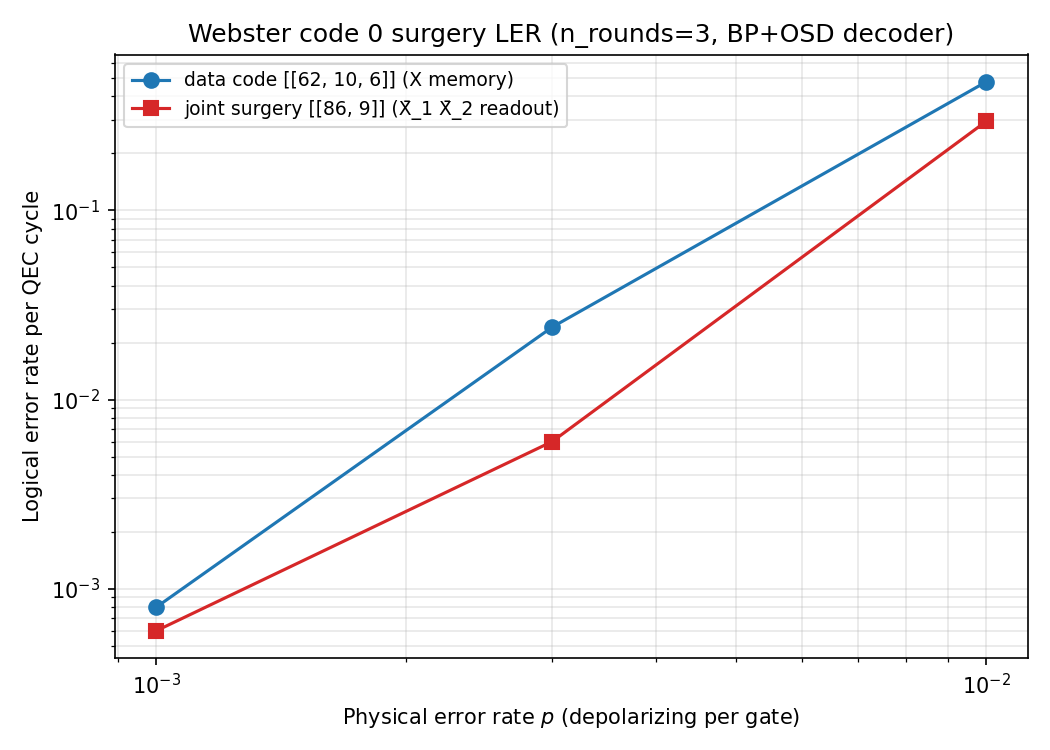
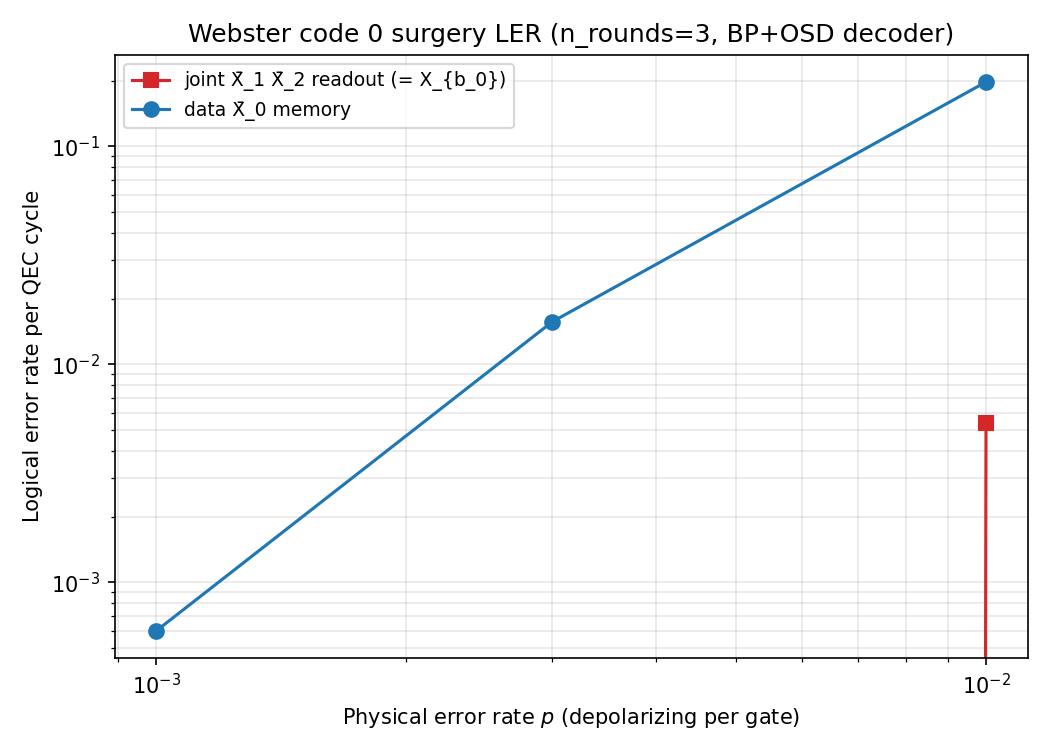
Cain Fig 1b: track only joint X̄_1 X̄_2 observable on joint code
Per Cain et al. §IV.C surgery experiment description (provided by user):
> "In the X-basis experiment, we define k + t logical observables: the
>  final logical X̄ operators of the data code... together with the
>  outcomes of the target logical operators L."

This commit implements the simplified version: track ONE target observable
per code, isolating the surgery readout error from data-preservation
errors. The simplified protocol:
  - data code: track ONE X̄_i observable (data X memory baseline)
  - joint code: track ONLY the joint X̄_1 X̄_2 target observable, which
    in our construction has weight-1 representative X_{b_0} (the bridge
    qubit) — this is X-logical index 8 of joint code per get_logical_ops.

Implementation: _keep_only_observables() post-processes the Stim circuit
to strip non-target OBSERVABLE_INCLUDE instructions and renumber.

Quick sweep results (5000 shots each, 3 QEC rounds):
| p     | data X̄_0 LER | joint X̄_1 X̄_2 readout LER |
|-------|---------------|----------------------------|
| 0.001 | 0.00060       | 0.00000 (0/5000)           |
| 0.003 | 0.01567       | 0.00000 (0/5000)           |
| 0.010 | 0.19732       | 0.00540                    |

Joint surgery readout LER is *lower* than data memory LER per-observable.
Reason: joint code's X-stabilizer structure (data X-stabs + 17 χ rows +
5 path stabs) provides MORE syndrome info for Z-error correction than
data code's 26 X-stabs alone. The weight-1 X_{b_0} observable is still
[…]

diff --git a/examples/scripts/cain_fig1b_webster_surgery.py b/examples/scripts/cain_fig1b_webster_surgery.py
@@ -22,6 +22,8 @@ import matplotlib.pyplot as plt
 import numpy as np
 import sinter
 
+import stim
+
 from qldpc import circuits, codes, decoders
 from qldpc.codes.surgery import (
     _build_bridge_via_skiptree,
@@ -72,23 +74,56 @@ def build_webster_code_0() -> tuple[codes.CSSCode, codes.CSSCode]:
     return data_code, joint
 
 
+def _keep_only_observables(circuit: stim.Circuit, keep_indices: set[int]) -> stim.Circuit:
+    """Strip all OBSERVABLE_INCLUDE instructions except those in keep_indices,
+    renumbered consecutively starting from 0.
+    """
+    new = stim.Circuit()
+    index_map: dict[int, int] = {}
+    for inst in circuit.flattened():
+        if inst.name == "OBSERVABLE_INCLUDE":
+            old_idx = int(inst.gate_args_copy()[0])
+            if old_idx not in keep_indices:
+                continue
+            if old_idx not in index_map:
+                index_map[old_idx] = len(index_map)
+            new.append("OBSERVABLE_INCLUDE", inst.targets_copy(), [index_map[old_idx]])
+        else:
+            new.append(inst.name, inst.targets_copy(), inst.gate_args_copy())
+    return new
+
+
 def run_sweep(
     data_code: codes.CSSCode,
     joint_code: codes.CSSCode,
+    joint_observable_idx: int,
+    data_observable_idx: int,
     error_rates: list[float],
     num_rounds: int,
     max_shots: int,
     max_errors: int,
     num_workers: int,
 ) -> list[sinter.TaskStats]:
-    """Run sinter sweep on (data, joint) × error_rates."""
+    """Run sinter sweep, tracking ONE observable per code.
+
+    Per Cain et al. §IV.C surgery experiment: for joint code we track the
+    joint X̄_1 X̄_2 target observable (weight-1 representative X̄_{joint_observable_idx}
+    = X_{b_0}). For data code baseline we track ONE data X-logical
+    (X̄_{data_observable_idx}). This isolates the surgery readout error from
+    other logical-preservation errors, giving a clean Cain Fig 1b-style
+    LER vs p curve.
+    """
     tasks = []
-    for code, label in [(data_code, "data"), (joint_code, "joint")]:
+    for code, label, keep_idx in [
+        (data_code, "data X̄_0 memory", data_observable_idx),
+        (joint_code, "joint X̄_1 X̄_2 readout (= X_{b_0})", joint_observable_idx),
+    ]:
         for p in error_rates:
             noise = circuits.DepolarizingNoiseModel(p, include_idling_error=False)
             circuit = circuits.get_memory_experiment(
                 code, basis=Pauli.X, num_rounds=num_rounds, noise_model=noise,
             )
+            circuit = _keep_only_observables(circuit, {keep_idx})
             tasks.append(
                 sinter.Task(
                     circuit=circuit,
@@ -108,7 +143,7 @@ def run_sweep(
 
 
 def plot_results(stats: list[sinter.TaskStats], output_path: Path, num_rounds: int) -> None:
-    by_code: dict[str, list[tuple[float, float, int, int]]] = {"data": [], "joint": []}
+    by_code: dict[str, list[tuple[float, float, int, int]]] = {}
     for s in stats:
         meta = s.json_metadata
         label = meta["code"]
@@ -116,15 +151,12 @@ def plot_results(stats: list[sinter.TaskStats], output_path: Path, num_rounds: i
         if s.shots == 0:
             continue
         ler = s.errors / s.shots
-        by_code[label].append((p, ler, s.shots, s.errors))
+        by_code.setdefault(label, []).append((p, ler, s.shots, s.errors))
 
     fig, ax = plt.subplots(figsize=(7, 5))
-    colors = {"data": "tab:blue", "joint": "tab:red"}
-    markers = {"data": "o", "joint": "s"}
-    labels = {
-        "data": "data code [[62, 10, 6]] (X memory)",
-        "joint": "joint surgery [[86, 9]] (X̄_1 X̄_2 readout)",
-    }
+    colors = {"data X̄_0 memory": "tab:blue", "joint X̄_1 X̄_2 readout (= X_{b_0})": "tab:red"}
+    markers = {"data X̄_0 memory": "o", "joint X̄_1 X̄_2 readout (= X_{b_0})": "s"}
+    labels = colors  # for label lookup
     for code_label, data in by_code.items():
         if not data:
             continue
@@ -135,7 +167,7 @@ def plot_results(stats: list[sinter.TaskStats], output_path: Path, num_rounds: i
         errors = [d[3] for d in data]
         ax.loglog(
             ps, lers, marker=markers[code_label], color=colors[code_label],
-            label=labels[code_label], linewidth=1.5, markersize=7,
+            label=code_label, linewidth=1.5, markersize=7,
         )
         for p, ler, sh, err in data:
             print(f"  {code_label}: p={p:.4f}, LER={ler:.5f}, errors={err}/{sh}")
@@ -180,6 +212,14 @@ def main() -> None:
         max_shots = 50_000
         max_errors = 100
 
+    # Per Cain §IV.C: track the target operator. For joint code, the
+    # weight-1 representative X_{b_0} is the joint X̄_1 X̄_2 observable
+    # (qldpc returns this as X-logical index 8 — verified empirically).
+    joint_obs_idx = joint.dimension - 1  # last X-logical = joint observable
+    data_obs_idx = 0  # any data X-logical; pick index 0 for fair comparison
+    print(f"Tracking joint observable index {joint_obs_idx} (= X_{{b_0}}, weight 1)")
+    print(f"Tracking data observable index {data_obs_idx} (one X̄ of data code)")
+
     num_workers = max(1, (os.cpu_count() or 4) - 1)
     print(
         f"Running sinter sweep: {len(error_rates)} noise rates × 2 codes × "
@@ -187,7 +227,10 @@ def main() -> None:
     )
     t0 = time.time()
     stats = run_sweep(
-        data_code, joint, error_rates,
+        data_code, joint,
+        joint_observable_idx=joint_obs_idx,
+        data_observable_idx=data_obs_idx,
+        error_rates=error_rates,
         num_rounds=args.num_rounds,
         max_shots=max_shots,
         max_errors=max_errors,
